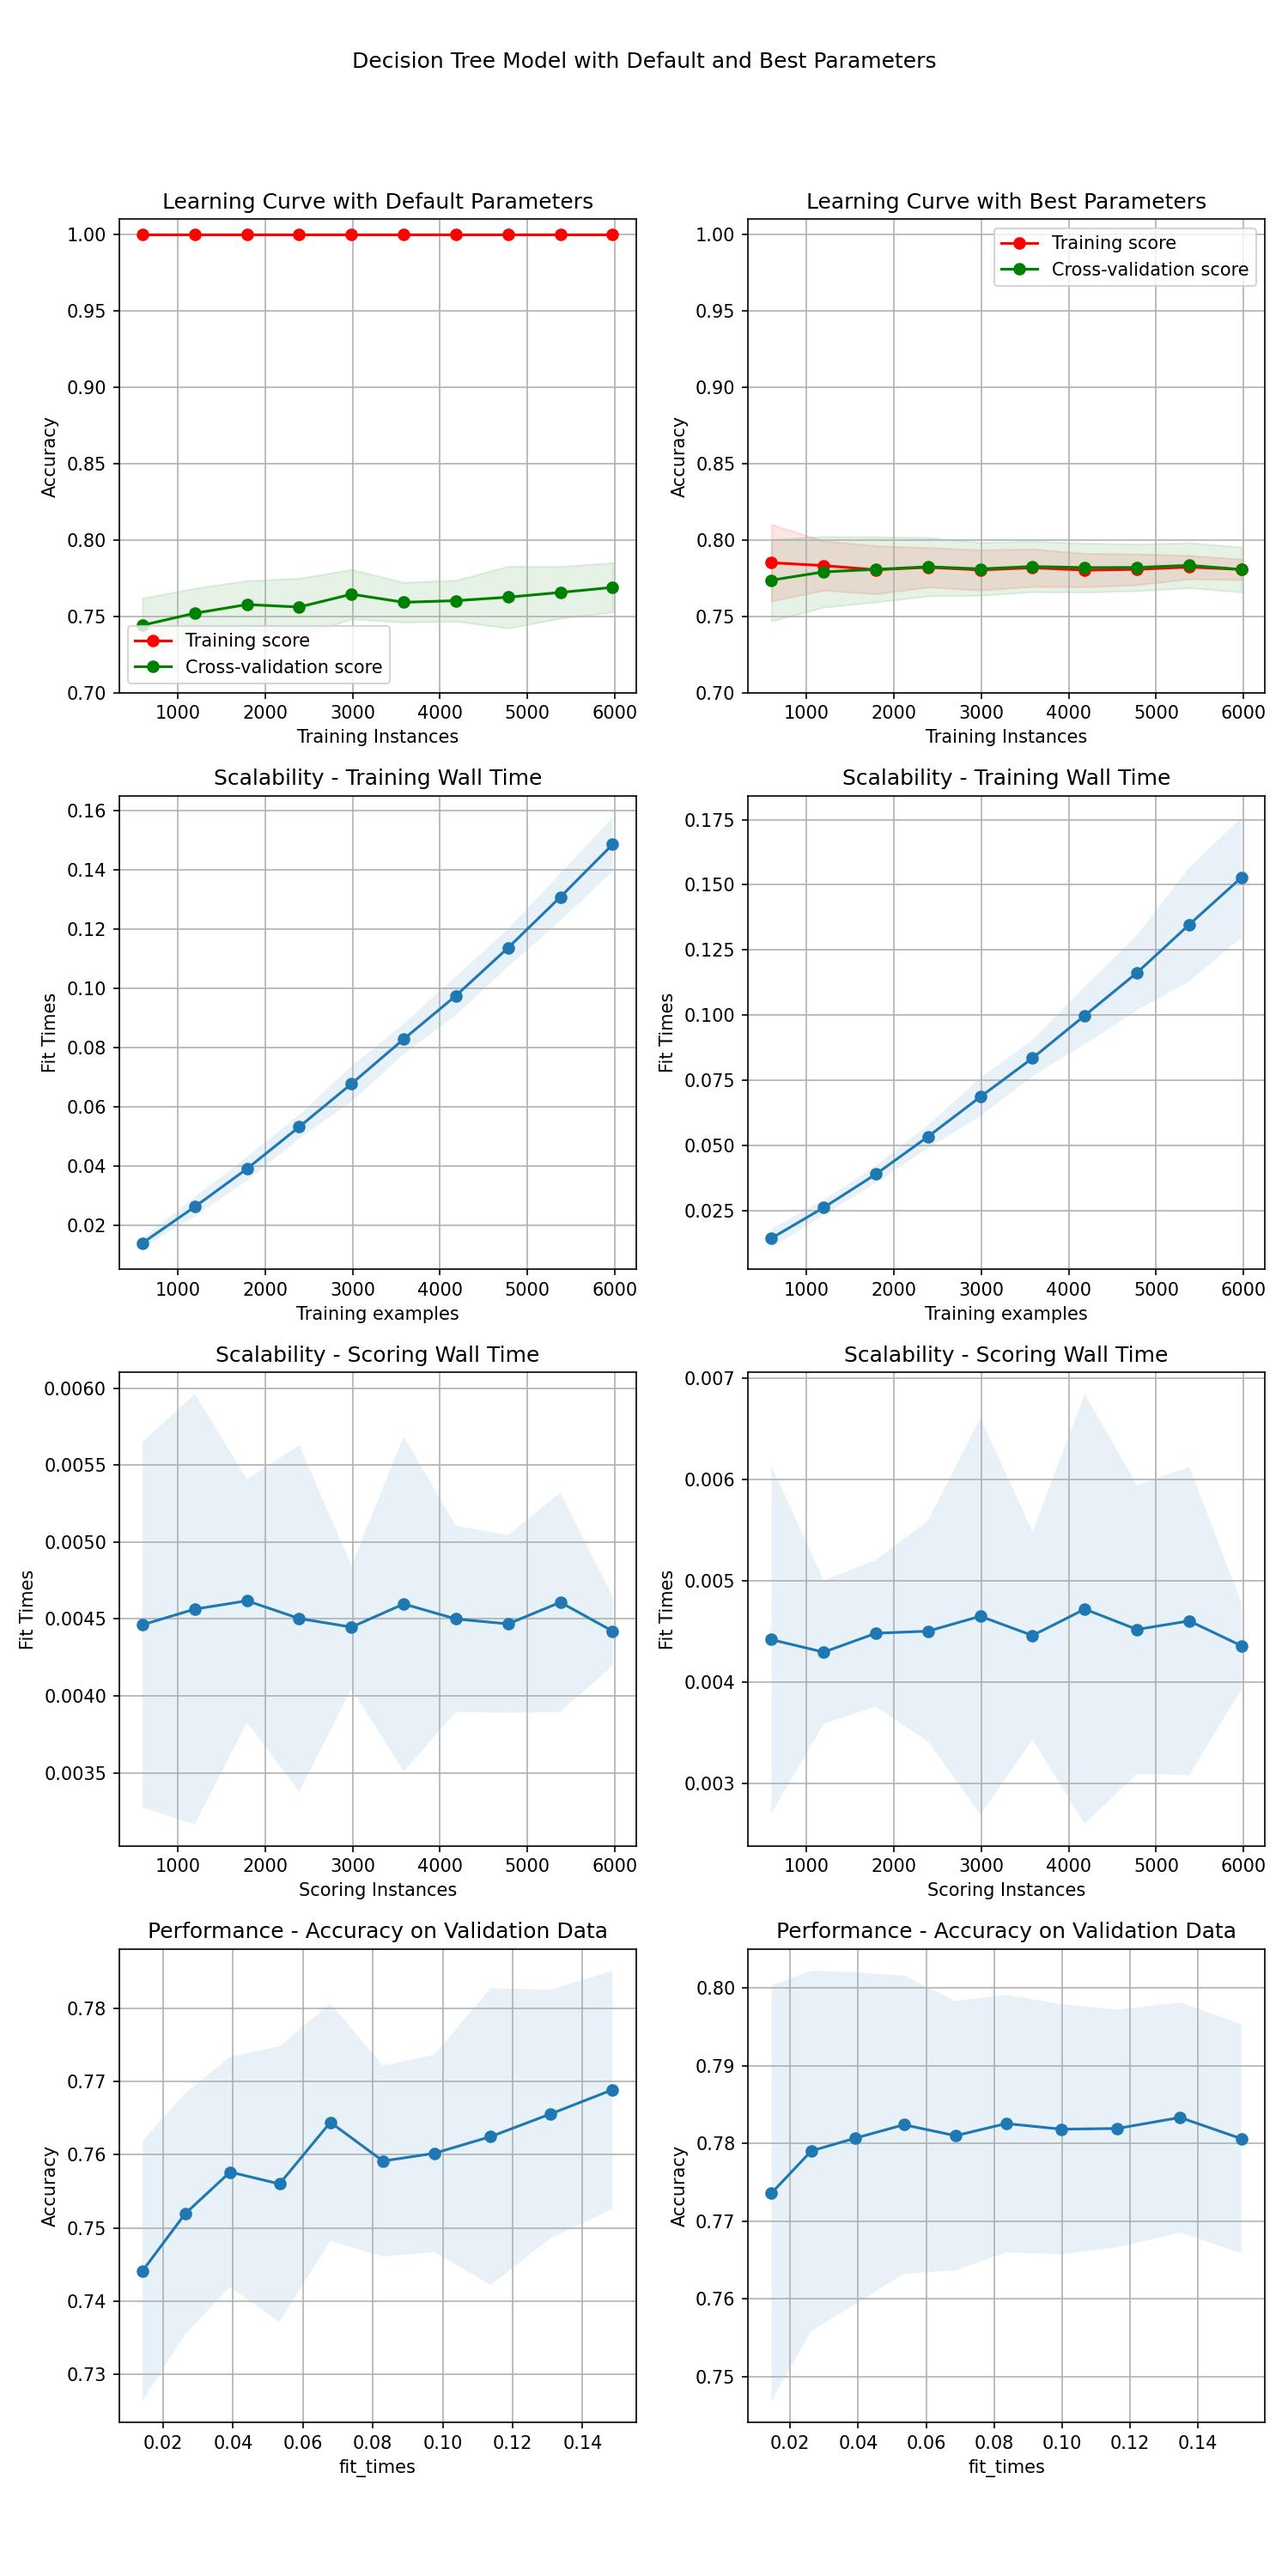
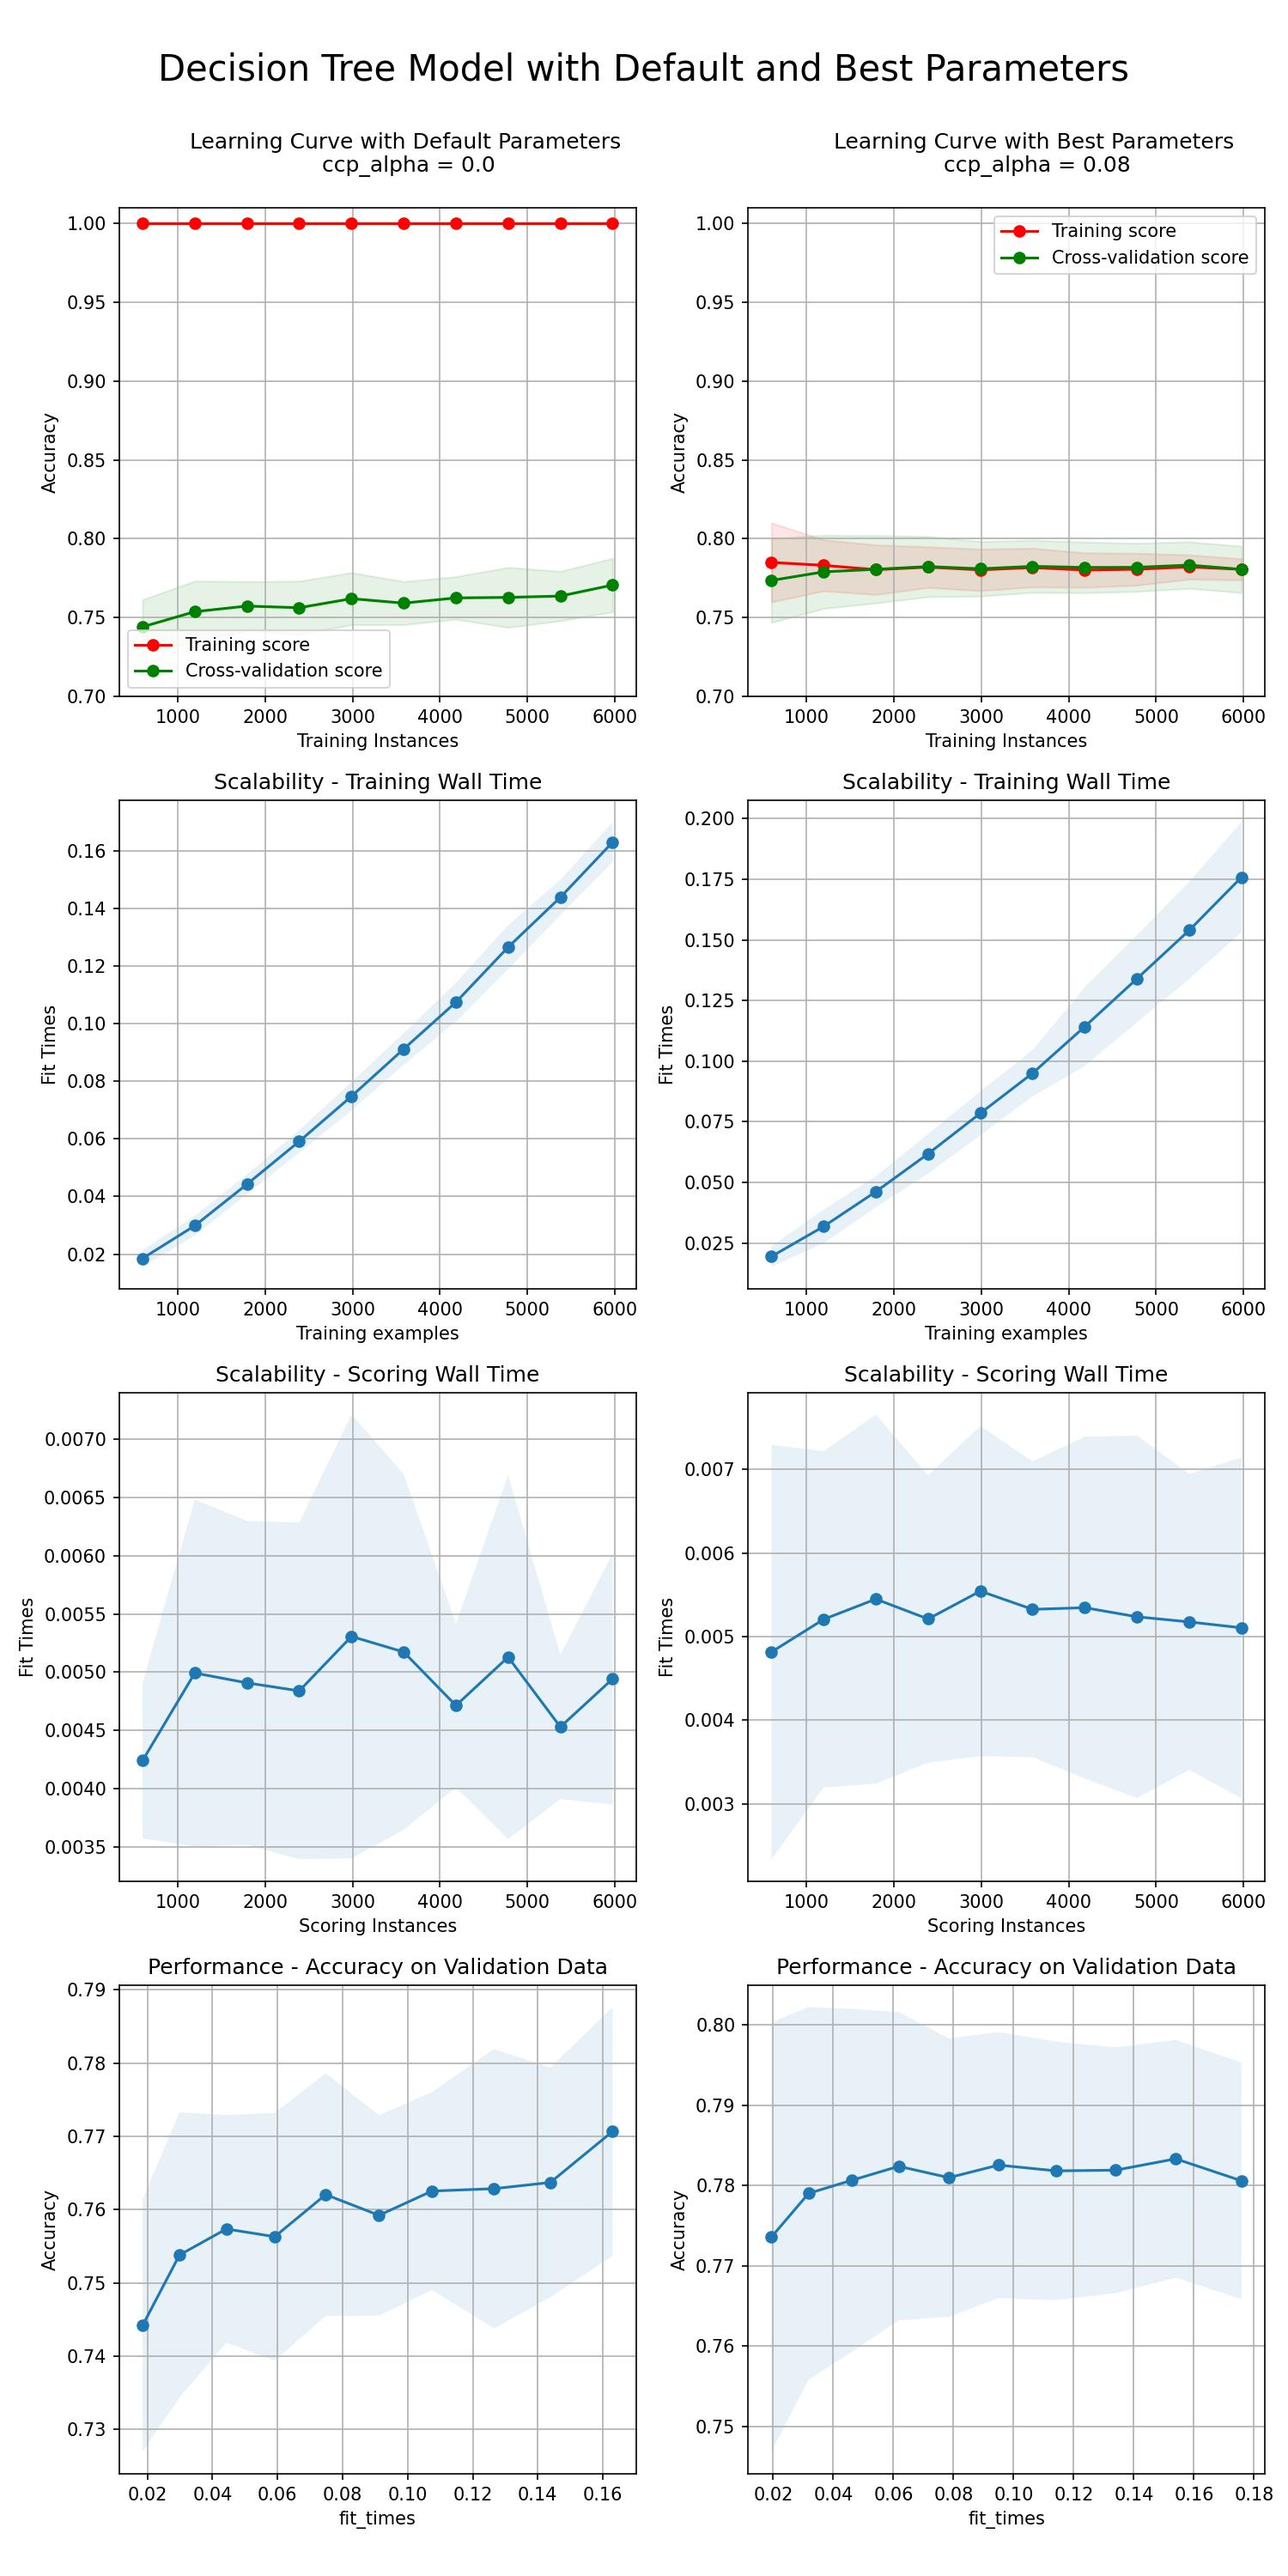
update graph to show parameter values

diff --git a/supervised_learning/src/main.py b/supervised_learning/src/main.py
@@ -48,10 +48,11 @@ def generate_model_analysis_plot(X, y, dataset_name):
         best_params_res = tuned_model.best_estimator_.get_params()  # type: ignore
 
         # creat model with the best parameters
+        best_param_value = best_params_res[
+            MODEL_MAPPING[model_type]["tuned_params_name"]
+        ]
         best_params = {
-            MODEL_MAPPING[model_type]["actual_params_name"]: best_params_res[
-                MODEL_MAPPING[model_type]["tuned_params_name"]
-            ]
+            MODEL_MAPPING[model_type]["actual_params_name"]: best_param_value
         }
         # add iteration to 500 if it's neural network
         if model_type == "Neural Network":
@@ -64,7 +65,9 @@ def generate_model_analysis_plot(X, y, dataset_name):
 
         # plot learning curve with default parameters
         plot_learning_curve(
+            model_type,
             "Default",
+            MODEL_MAPPING[model_type]["default_value"],
             model_default,
             X,
             y,
@@ -76,7 +79,11 @@ def generate_model_analysis_plot(X, y, dataset_name):
 
         # plot learning curve with the best parameters
         plot_learning_curve(
+            model_type,
             "Best",
+            round(best_param_value, 2)
+            if isinstance(best_param_value, float)
+            else best_param_value,
             model_best,
             X,
             y,
@@ -87,8 +94,10 @@ def generate_model_analysis_plot(X, y, dataset_name):
         )
 
         # save figure
-        plt.suptitle(f"{model_type} Model with Default and Best Parameters")
-        plt.tight_layout(rect=[0, 0.03, 1, 0.95])
+        plt.suptitle(
+            f"{model_type} Model with Default and Best Parameters", fontsize=20
+        )
+        plt.tight_layout(rect=[0, 0.01, 1, 0.99])
         plt.savefig(f"../reports/figures/{model_type}_{dataset_name}.jpg", dpi=150)
 
         # end timer

diff --git a/supervised_learning/src/config/config.py b/supervised_learning/src/config/config.py
@@ -10,30 +10,35 @@ MODEL_MAPPING = {
     "Decision Tree": {
         "model": DecisionTreeClassifier,
         "params": {"ccp_alpha": 0.0},
+        "default_value": 0.0,
         "actual_params_name": "ccp_alpha",
         "tuned_params_name": "classifier__ccp_alpha",
     },
     "Neural Network": {
         "model": MLPClassifier,
         "params": {"hidden_layer_sizes": (50, 10), "max_iter": 500},
+        "default_value": (50, 10),
         "actual_params_name": "hidden_layer_sizes",
         "tuned_params_name": "classifier__hidden_layer_sizes",
     },
     "AdaBoost": {
         "model": AdaBoostClassifier,
         "params": {"n_estimators": 50},
+        "default_value": 50,
         "actual_params_name": "n_estimators",
         "tuned_params_name": "classifier__n_estimators",
     },
     "SVC": {
         "model": SVC,
         "params": {"kernel": "rbf"},
+        "default_value":  "rbf",
         "actual_params_name": "kernel",
         "tuned_params_name": "classifier__kernel",
     },
     "KNN": {
         "model": KNeighborsClassifier,
         "params": {"n_neighbors": 5},
+         "default_value":  5,
         "actual_params_name": "n_neighbors",
         "tuned_params_name": "classifier__n_neighbors",
     },

diff --git a/supervised_learning/src/visualization/visualize.py b/supervised_learning/src/visualization/visualize.py
@@ -1,10 +1,13 @@
 import matplotlib.pyplot as plt
 import numpy as np
 from sklearn.model_selection import learning_curve
+from src.config.config import MODEL_MAPPING
 
 
 def plot_learning_curve(
+    model_name,
     params_type,
+    params_value,
     estimator,
     X,
     y,
@@ -88,7 +91,12 @@ def plot_learning_curve(
     if axes is None:
         _, axes = plt.subplots(1, 4, figsize=(24, 5))
 
-    axes[0].set_title(f"Learning Curve with {params_type} Parameters")
+    axes[0].set_title(
+        f"""
+        Learning Curve with {params_type} Parameters
+         {MODEL_MAPPING[model_name]['actual_params_name']} = {params_value}
+        """
+    )
     if ylim is not None:
         axes[0].set_ylim(*ylim)
     axes[0].set_xlabel("Training Instances")
